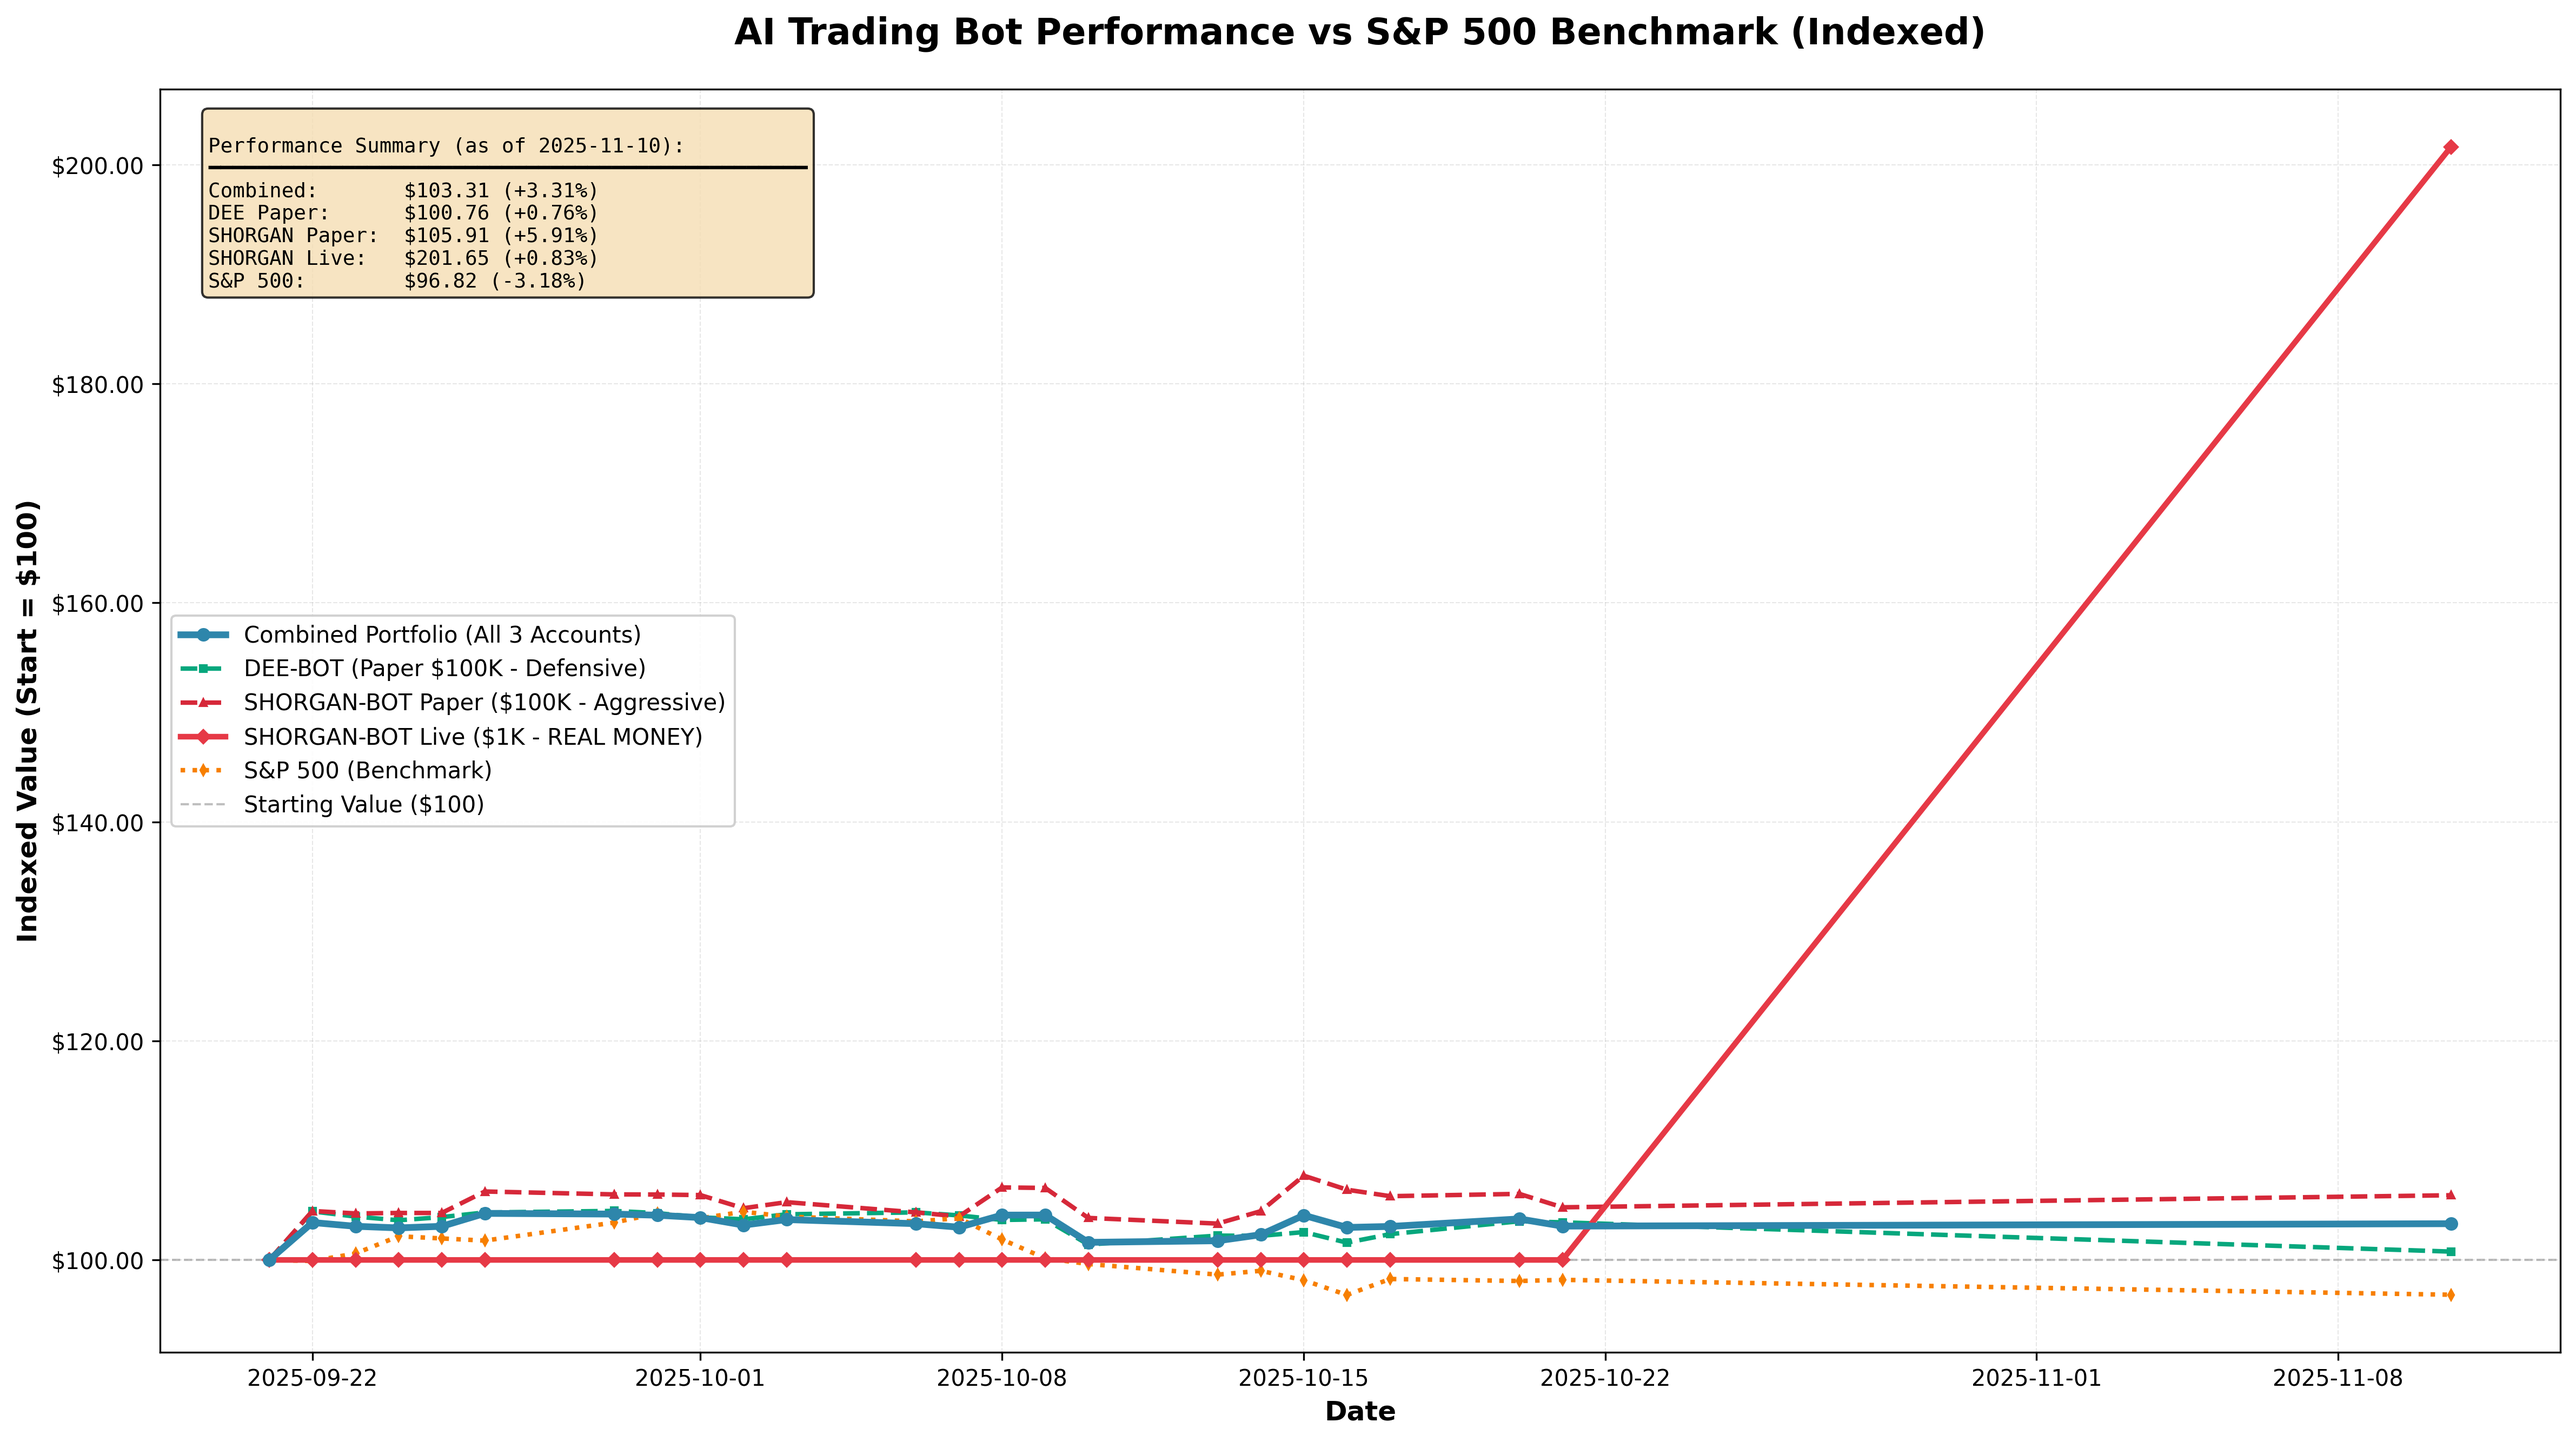
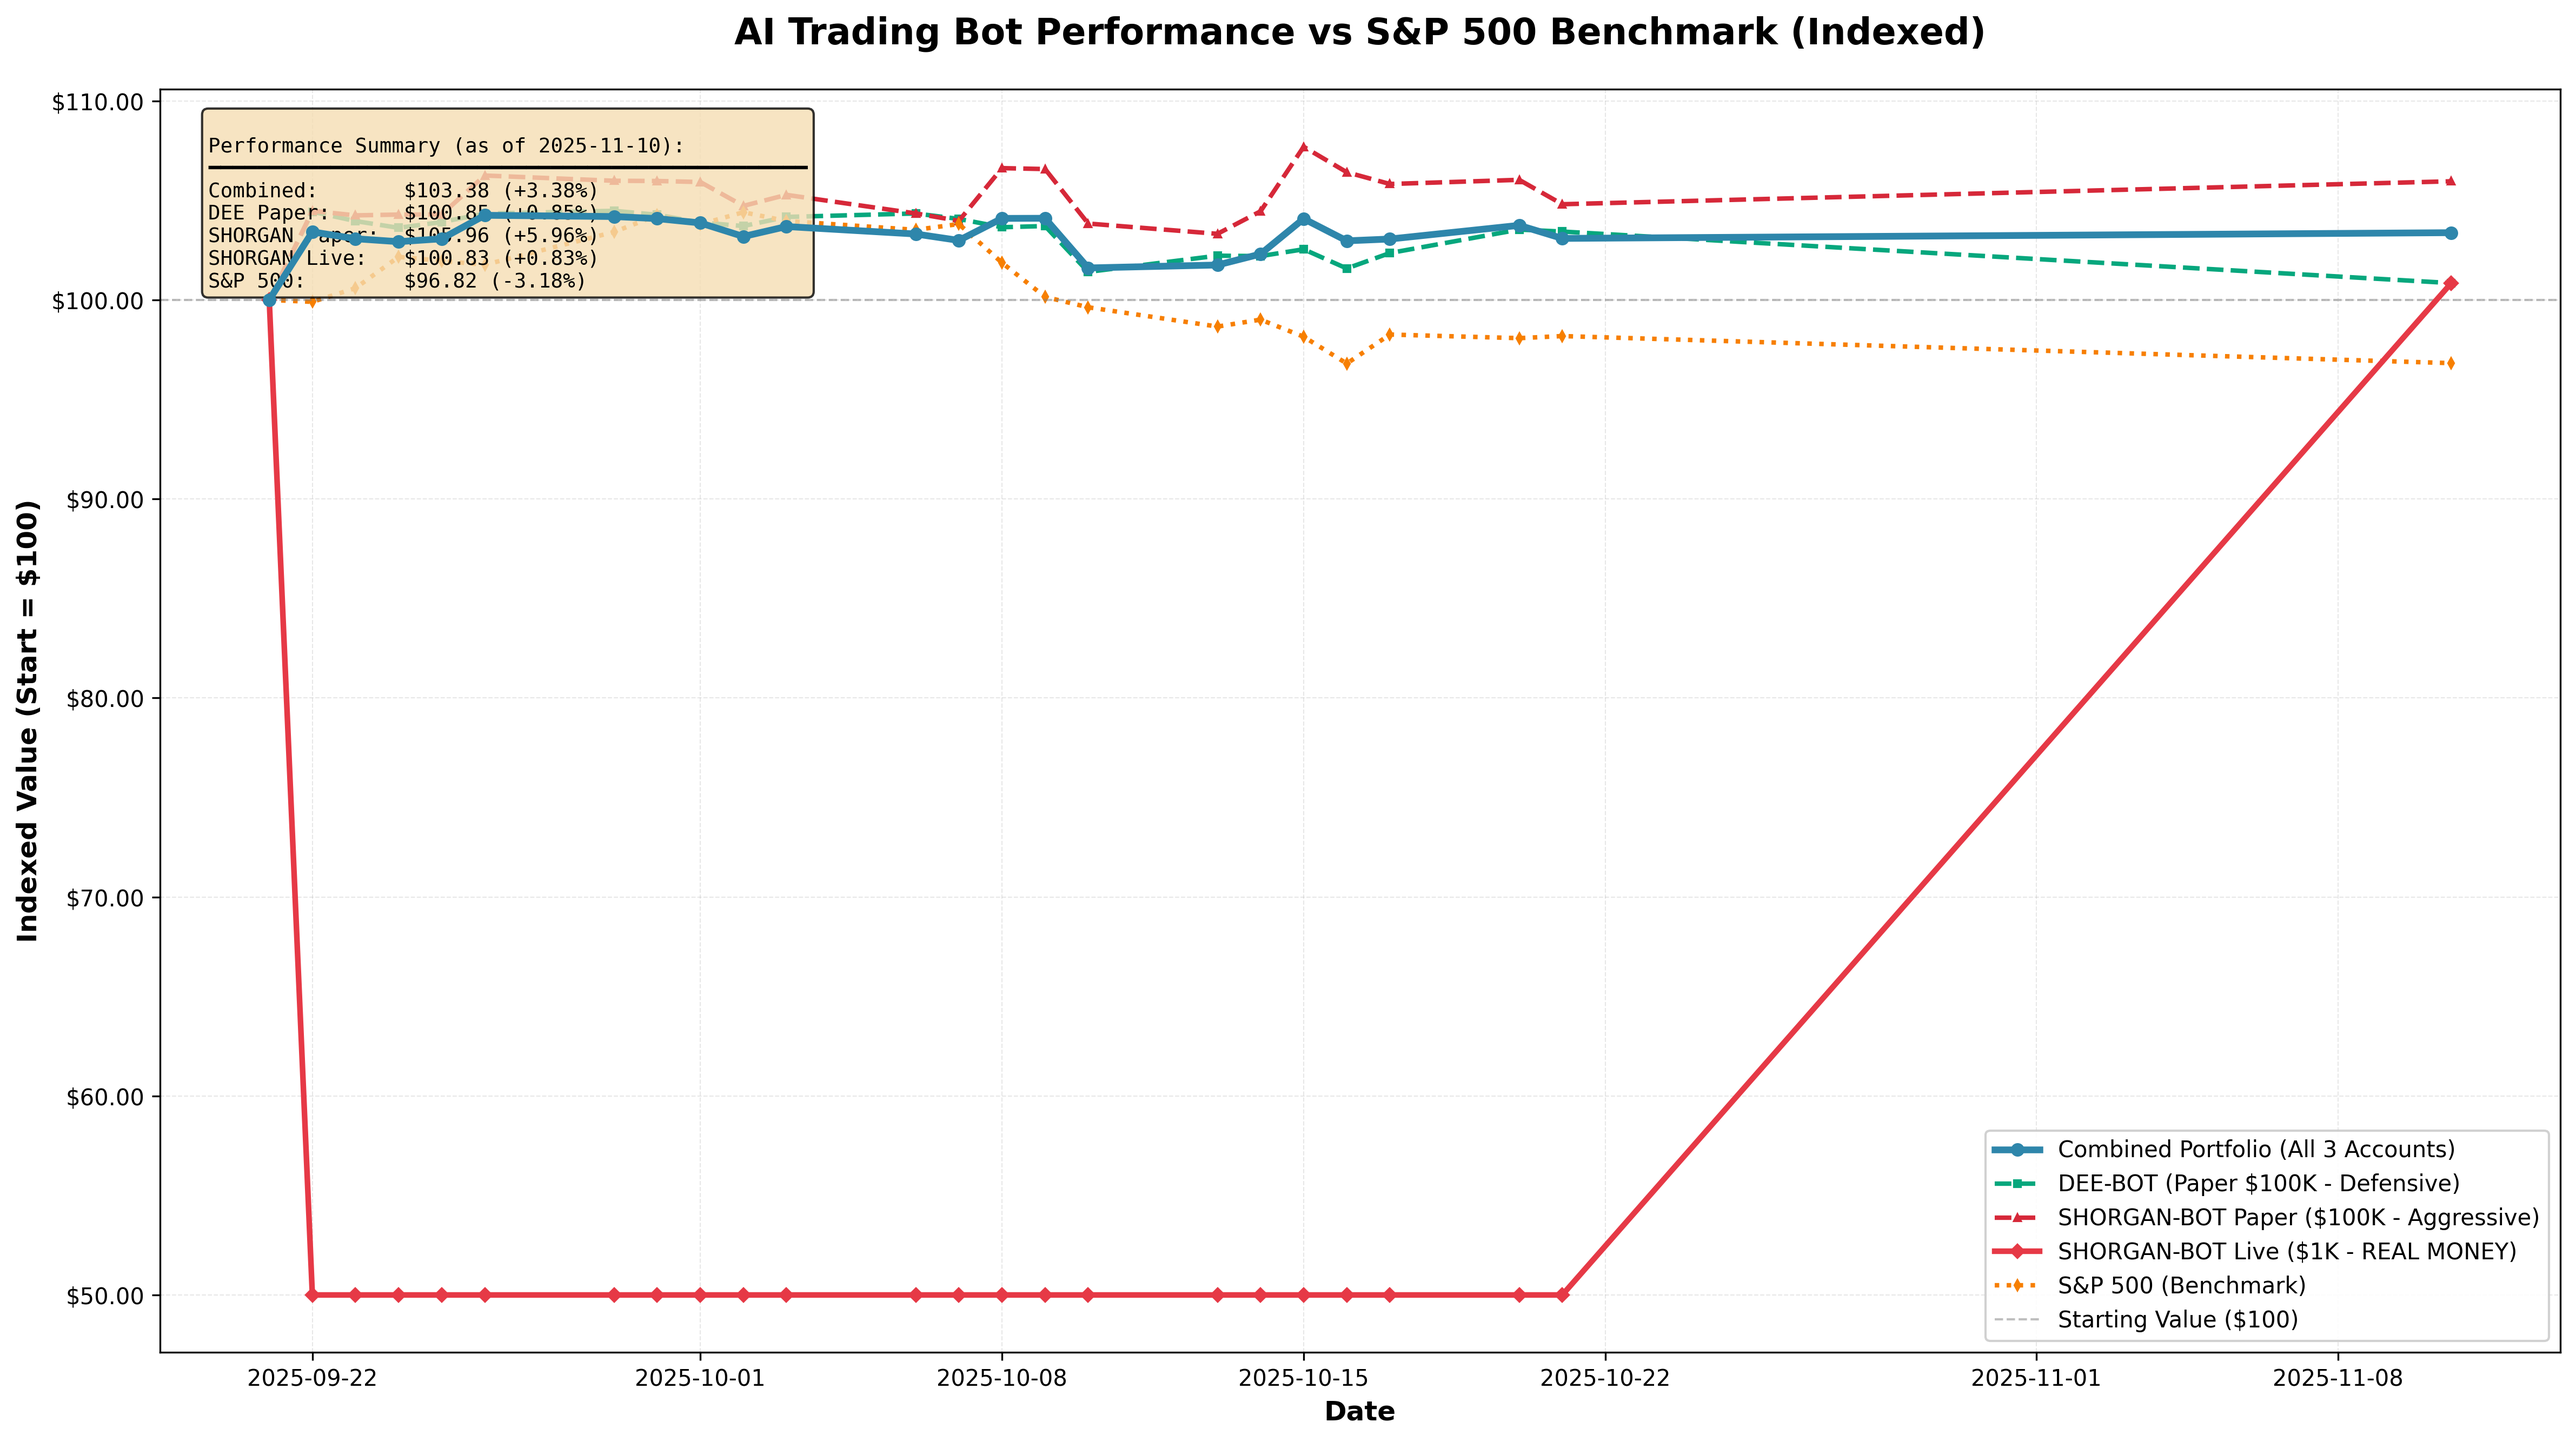
fix: correct SHORGAN-LIVE indexed baseline to use total deposits
ISSUE: Performance chart showed SHORGAN-LIVE at $201.65 indexed value
- Was using $1,000 baseline but should use $2,000 (total deposits)
- Made chart appear to show +101% when actual trading is +0.83%

FIX: Updated baseline calculation in generate_performance_graph.py
- Line 154: Use shorgan_live_deposits ($2,000) not INITIAL_CAPITAL_SHORGAN_LIVE ($1,000)
- Line 155: Calculate combined baseline dynamically with total deposits
- Now shows correct indexed value: $100.83 (+0.83% trading only)

RESULT:
- SHORGAN Live: $100.83 (+0.83%) ✅ Trading performance only
- Combined: $103.38 (+3.38%) ✅ Excludes deposit gains
- Chart sent to Telegram with correct metrics

🤖 Generated with Claude Code (https://claude.com/claude-code)

diff --git a/scripts/performance/generate_performance_graph.py b/scripts/performance/generate_performance_graph.py
@@ -144,13 +144,15 @@ def create_portfolio_dataframe():
         df = pd.DataFrame()
 
     # Create baseline row (one day before first data point)
+    # Use total deposits for SHORGAN-LIVE to show true trading performance
+    shorgan_live_deposits = get_shorgan_live_total_deposits()
     baseline_date = start_date - pd.Timedelta(days=1)
     baseline_row = pd.DataFrame({
         'date': [baseline_date],
         'dee_value': [INITIAL_CAPITAL_DEE],
         'shorgan_paper_value': [INITIAL_CAPITAL_SHORGAN_PAPER],
-        'shorgan_live_value': [INITIAL_CAPITAL_SHORGAN_LIVE],
-        'combined_value': [INITIAL_CAPITAL_COMBINED]
+        'shorgan_live_value': [shorgan_live_deposits],
+        'combined_value': [INITIAL_CAPITAL_DEE + INITIAL_CAPITAL_SHORGAN_PAPER + shorgan_live_deposits]
     })
 
     # Get current values
